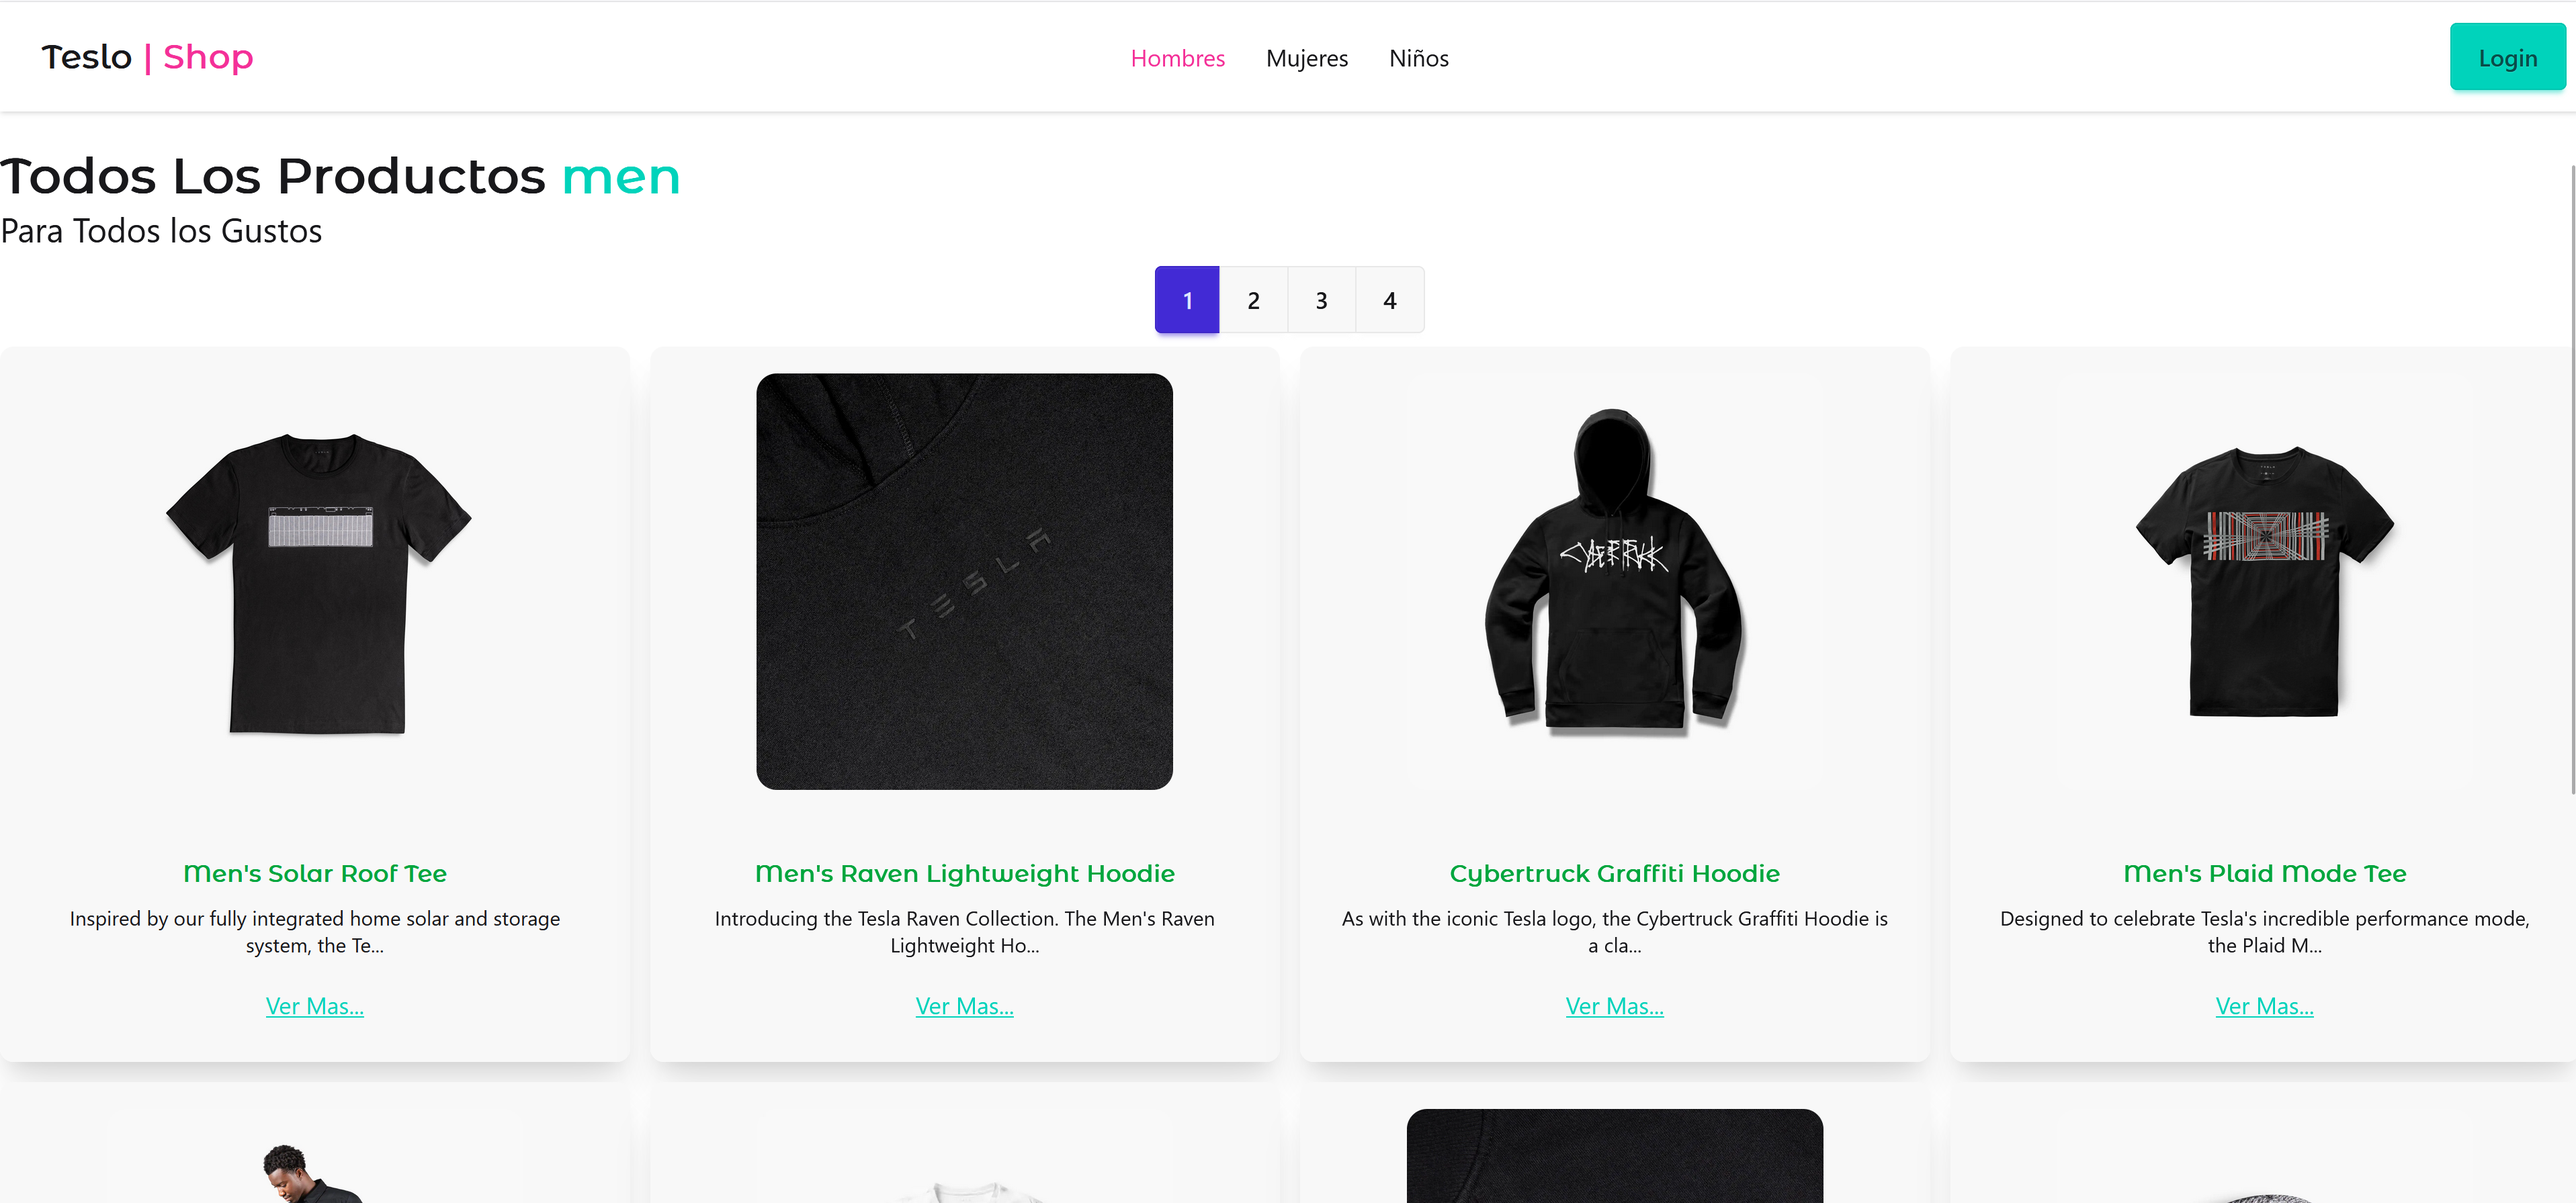
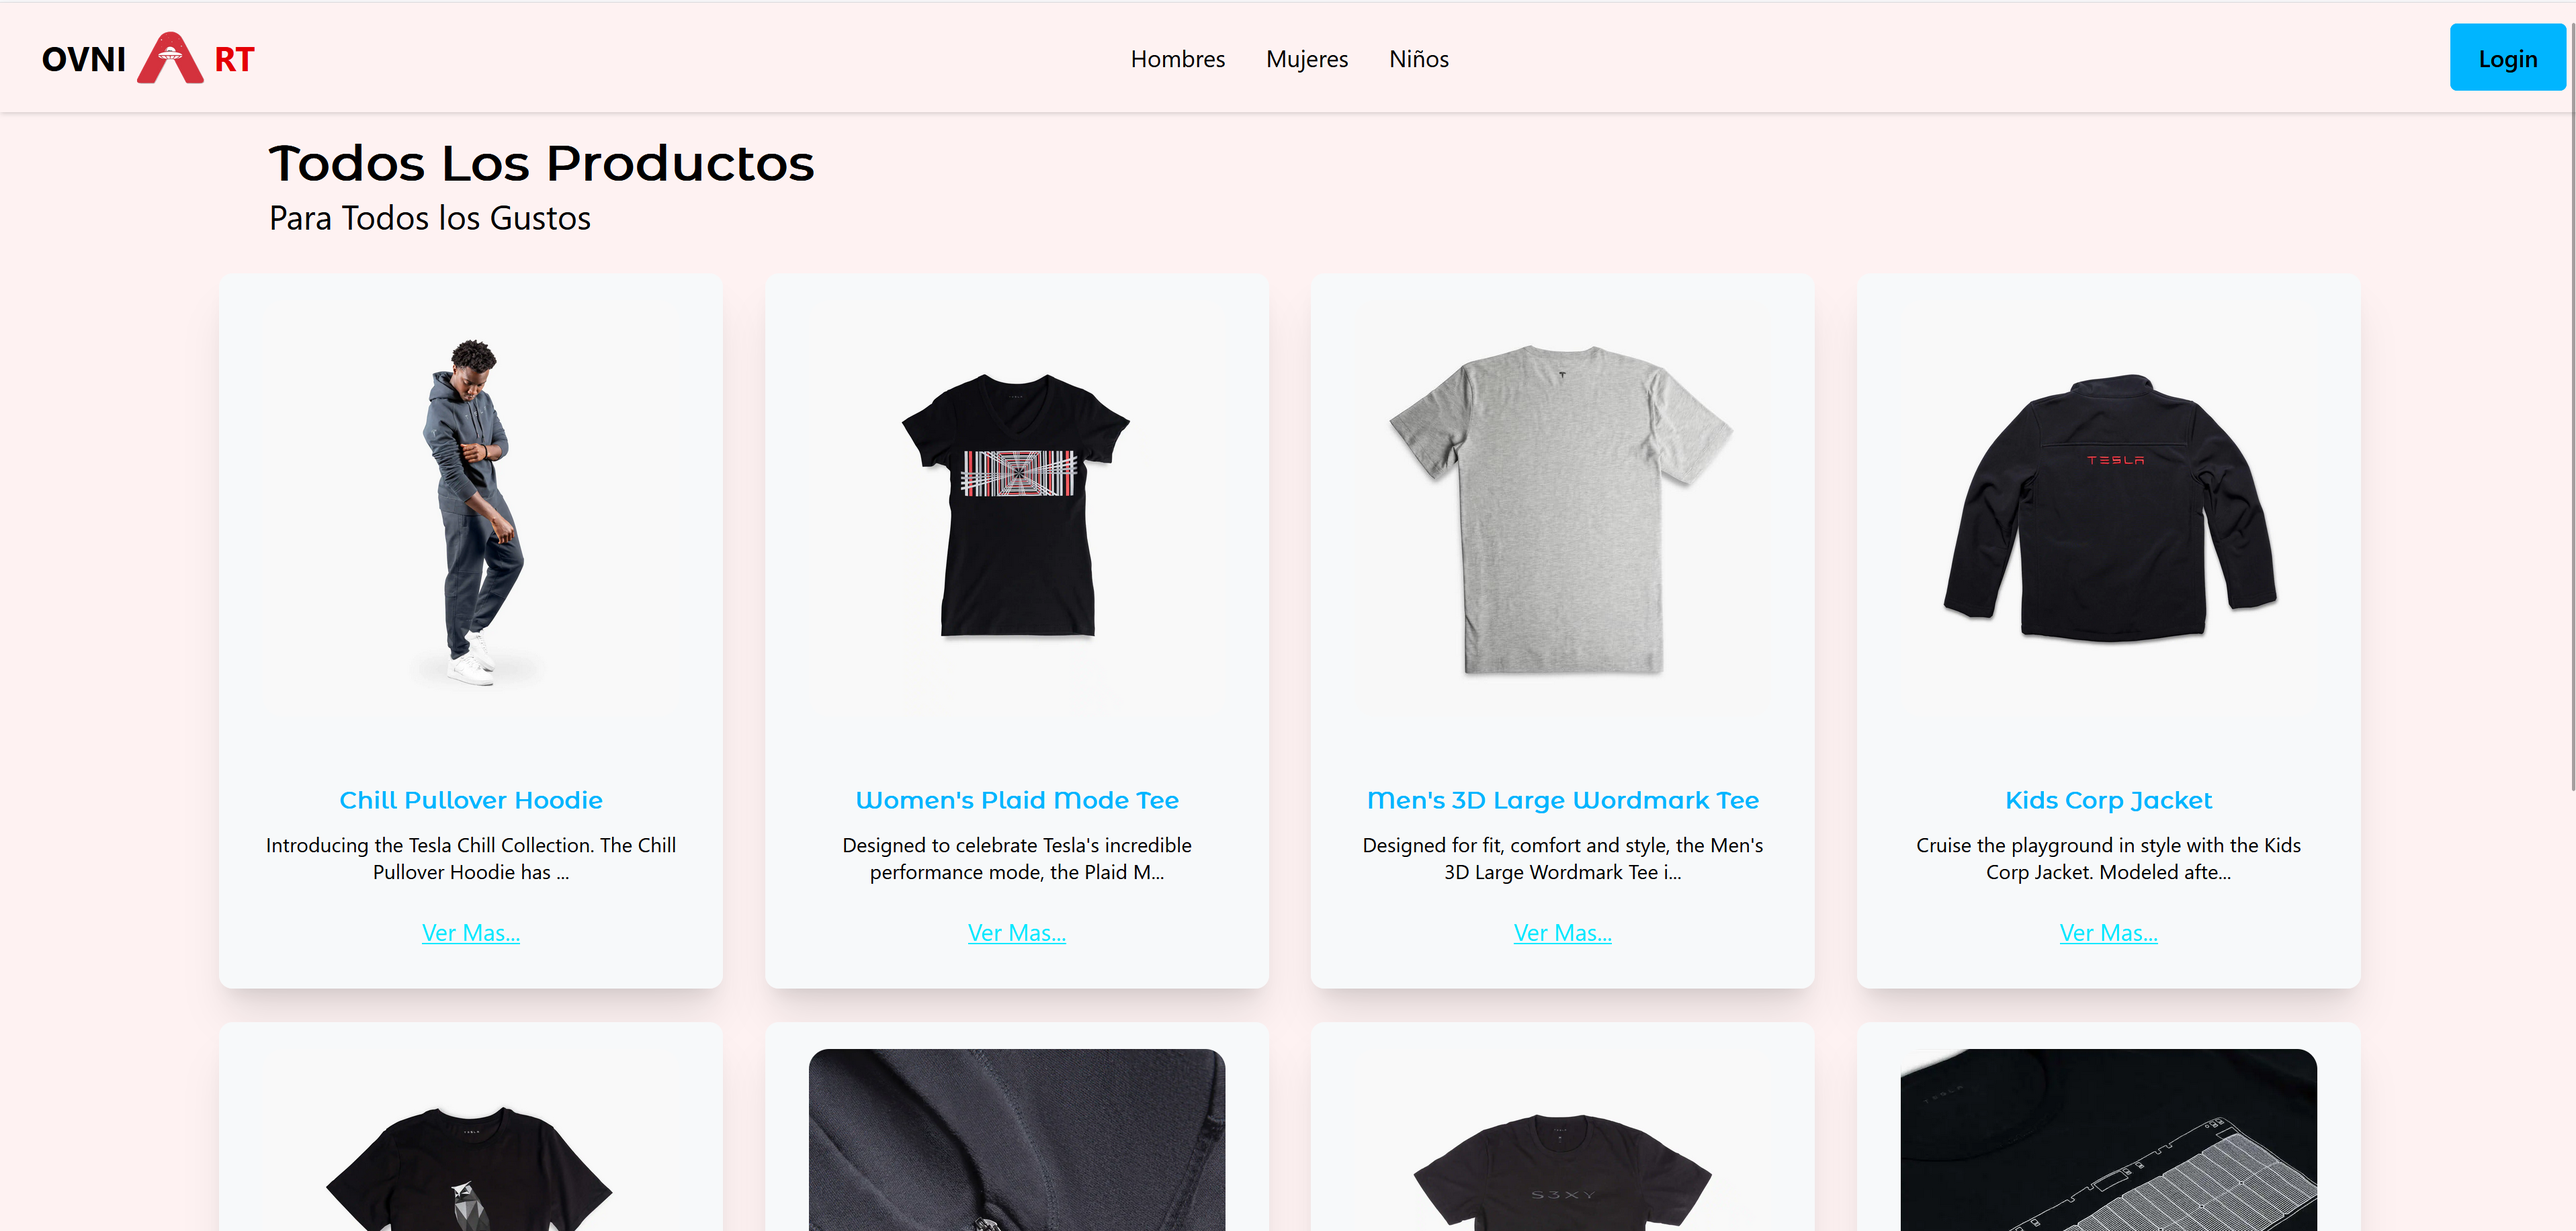
portafolio-V5

diff --git a/src/app/portFolio/pages/experience-info/experience-info.component.html b/src/app/portFolio/pages/experience-info/experience-info.component.html
@@ -1,4 +1,4 @@
-<section class="contentTotal max-w-4xl justify-center m-auto ">
+<section class="contentTotal max-w-4xl  m-auto ">
    <div class="text-4xl font-bold stat-title text-center" id="experiencia">
     <h1 >Experiencia</h1>
    </div>
@@ -32,15 +32,16 @@
       <div class="stat-figure text-secondary">
         <i class="fa-solid fa-building text-2xl"></i>
       </div>
-      <div class="stat-title">Empresa</div>
-      <div class="stat-value text-lg">TecnoParque SENA</div>
-      <div class="stat-desc flex gap-2  mt-2">
-       <p>Certificado</p>
-       <a
+      <div class="stat-title mb-2">Empresa</div>
+      <div class="stat-value text-lg ">TecnoParque SENA</div>
+      <div class="stat-desc flex gap-2  mt-3  ">
+        <a
         href="/assets/docs/Ce2_jcpm.pdf"
         target="_blank"
         rel="noopener noreferrer"
-        class="btn btn-xs btn-outline btn-circle ">
+        class="btn btn-xs btn-dash btn-accent"
+        >
+        <p>Certificado</p>
         <i class="fa-solid fa-file-lines"></i>
       </a>
       </div>

diff --git a/src/app/portFolio/pages/proyect-info/proyect-info.component.ts b/src/app/portFolio/pages/proyect-info/proyect-info.component.ts
@@ -25,7 +25,7 @@ export class ProyectInfoComponent {
     },
     {
 
-      title: 'Teslo-Shop',
+      title: 'ovni-Art',
       info: 'Tienda virtual de ropa, nos permite ver los diferentes productos por género, Implementa una paginación para visualizar de mejor forma todos los productos, también cuenta con un formulario de inicio de sesión y de registro. Se puede acceder con una cuenta autorizada a un panel administrativo para actualizar o subir nuevos productos.',
       img: '/assets/images/teslo.png',
       tecnologies: [
@@ -34,7 +34,7 @@ export class ProyectInfoComponent {
         { name: 'Nest.js', icon: '/assets/images/nest.png', color: Colors.nest },
         { name: 'SQL', icon: '/assets/images/sql.png', color: Colors.typescript },
       ],
-      link: 'https://teslo-shop-jcpm.netlify.app/#/gender/men',
+      link: 'https://ovni-art-jcpm.netlify.app/',
       gitLink: 'https://github.com/johancpm/teslo-shop-front-end.git'
     },
     {

diff --git a/src/app/portFolio/components/proyect/proyect.component.ts b/src/app/portFolio/components/proyect/proyect.component.ts
@@ -19,9 +19,9 @@ export class ProyectComponent {
 
     const elemtImg = document.getElementById(this.proyecto().title);
     const elemtDiv = document.getElementById(this.id().toString());
-    const elemtDiv1 = document.getElementById('proyectos')
 
-    if(elemtDiv && elemtDiv1){
+
+    if(elemtDiv ){
       setTimeout(() => {
         if(this.idProyect === this.id()){
           elemtDiv.scrollIntoView({
@@ -30,7 +30,7 @@ export class ProyectComponent {
            inline: 'nearest'
           })
         }else if(this.idProyect != this.id()){
-           elemtDiv1.scrollIntoView({
+           elemtDiv.scrollIntoView({
            behavior: 'smooth',
            block: 'start',
            inline: 'nearest'
